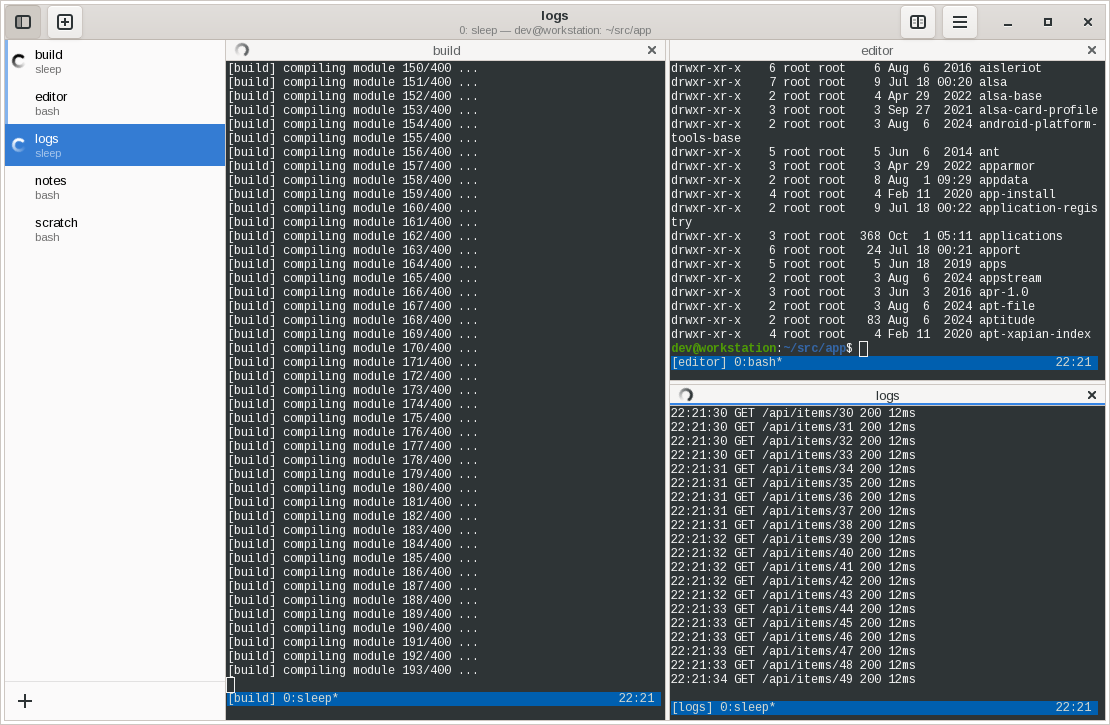
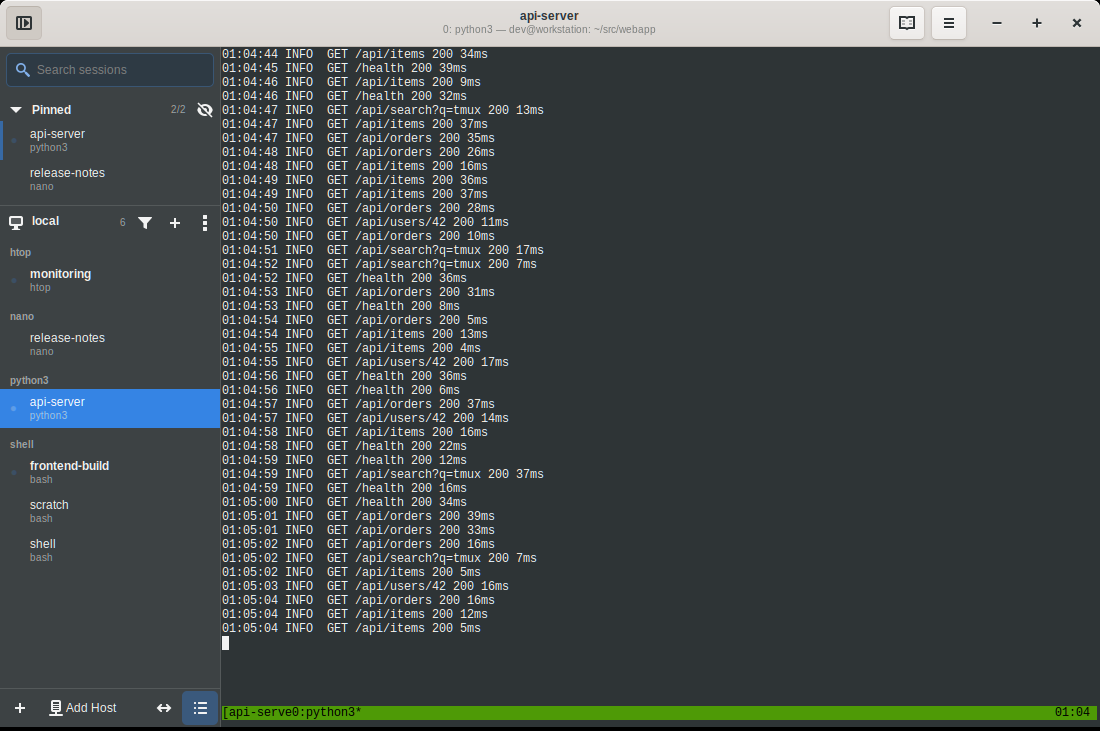
Build and publish packages for Ubuntu 24.04 and 26.04 and RHEL 8 and 10
The release workflow now also builds RPMs for RHEL 8 and 10 in Rocky
Linux 8 and AlmaLinux 10 containers on amd64 and arm64, uploads a
signed Ubuntu 26.04 source package to the PPA for Launchpad to build,
and publishes signed dnf repositories, with .repo files, beside the
APT repository on GitHub Pages. A composite action imports the signing
key and caches its passphrase in gpg-agent for gpg, rpmsign and
debsign. Integration CI builds the RPMs and builds the PPA package the
way Launchpad does.

Older GTK libraries are detected with pkg-config and selected in gotk3
with build tags (glib_2_56, gtk_3_22, pango_1_42, cairo_1_15 on RHEL
8). VTE before 0.54 leaves a new pty locked, so it's unlocked before
the client opens it.

The README has install instructions for each release, the Launchpad
setup, the license, and a screenshot of the app running on a GNOME
desktop.

Claude-Session: https://claude.ai/code/session_01W8pBYCqKCJ8aupw9tiXt1K

diff --git a/magefile.go b/magefile.go
@@ -1119,11 +1119,54 @@ func makeBuilder(cmd string, platform Platform) func() error {
 
 		fmt.Println("Building", platform.PlatformBin(cmd))
 		// GTK3 and VTE are linked with cgo, so the binary is dynamically linked.
+		args := []string{"build", "-ldflags", fmt.Sprintf("-s -w -buildid='' -X %s=%s", versionSymbol(), version),
+			"-trimpath", "-o", platform.PlatformBin(cmd)}
+		if tags := gotk3Tags(); len(tags) > 0 {
+			fmt.Println("Building for older GTK libraries with tags", strings.Join(tags, ","))
+			args = append(args, "-tags", strings.Join(tags, ","))
+		}
 		return sh.RunWith(map[string]string{"CGO_ENABLED": "1", "GOOS": platform.OS, "GOARCH": platform.Arch},
-			"go", "build", "-ldflags", fmt.Sprintf("-s -w -buildid='' -X %s=%s", versionSymbol(), version),
-			"-trimpath", "-o", platform.PlatformBin(cmd), cmdSrc)
+			"go", append(args, cmdSrc)...)
 	}
 	return f
+}
+
+// gotk3Tag returns gotk3's build tag for a library older than gotk3 builds for by default,
+// or "". gotk3 binds the newest functions unless told the library is older with tags such
+// as gtk_3_22; it has a tag for every minor version from lowest, in steps of step, up to
+// before newest.
+func gotk3Tag(module, prefix string, lowest, newest, step int) string {
+	out, err := exec.Command("pkg-config", "--modversion", module).Output()
+	if err != nil {
+		return ""
+	}
+	parts := strings.Split(strings.TrimSpace(string(out)), ".")
+	if len(parts) < 2 {
+		return ""
+	}
+	minor, err := strconv.Atoi(parts[1])
+	if err != nil || minor >= newest {
+		return ""
+	}
+	minor -= (minor - lowest) % step
+	return fmt.Sprintf("%s_%d", prefix, max(minor, lowest))
+}
+
+// gotk3Tags returns the gotk3 build tags matching the GTK libraries installed, such as
+// glib_2_56 and gtk_3_22 on RHEL 8. Up-to-date libraries need none.
+func gotk3Tags() []string {
+	tags := []string{}
+	for _, t := range []string{
+		gotk3Tag("glib-2.0", "glib_2", 40, 68, 2),
+		gotk3Tag("gtk+-3.0", "gtk_3", 6, 24, 2),
+		gotk3Tag("pango", "pango_1", 36, 44, 2),
+		gotk3Tag("cairo", "cairo_1", 9, 16, 1),
+	} {
+		if t != "" {
+			tags = append(tags, t)
+		}
+	}
+	return tags
 }
 
 func getCurrentPlatform() *Platform {

diff --git a/pkg/vte/vte.go b/pkg/vte/vte.go
@@ -81,6 +81,11 @@ func (t *Terminal) Start(cmd *exec.Cmd) (string, error) {
 	C.vte_terminal_set_pty(t.native(), pty)
 
 	masterFd := int(C.vte_pty_get_fd(pty))
+	// VTE before 0.54, as on RHEL 8, leaves the pty locked until its own child setup,
+	// which this doesn't use: unlock it, as unlockpt does.
+	if err := unix.IoctlSetPointerInt(masterFd, unix.TIOCSPTLCK, 0); err != nil {
+		return "", errors.Wrap(err, "unlocking the pty")
+	}
 	ptyNum, err := unix.IoctlGetUint32(masterFd, unix.TIOCGPTN)
 	if err != nil {
 		return "", errors.Wrap(err, "TIOCGPTN")

diff --git a/README.md b/README.md
@@ -1,6 +1,6 @@
 # tmux-tabbed-terminal
 
-![tmux-tabbed-terminal with three sessions side by side](docs/screenshot.png)
+![tmux-tabbed-terminal showing pinned sessions and sessions grouped by application](docs/screenshot.png)
 
 A terminal for people who live in tmux. It looks like GNOME Terminal, but instead of tabs
 it lists the tmux sessions running for you in a sidebar. Click a session to switch to it,
@@ -53,8 +53,22 @@ never kills a session.
 
 ## Install
 
-Packages for Ubuntu 24.04 (noble), amd64 and arm64, are published as an APT repository on
-GitHub Pages:
+Packages are built for Ubuntu 24.04 and 26.04 and for RHEL 8 and 10 (and rebuilds such as
+Rocky Linux and AlmaLinux), for amd64 and arm64. They're signed with the key
+`4EE9 6BF5 C3BE 937F DD2D  0109 47CC C9AA 4B3F D5DE`. Each
+[GitHub release](https://github.com/wrouesnel/tmux-tabbed-terminal/releases) also has them
+attached.
+
+### Ubuntu 26.04 (PPA)
+
+```sh
+sudo add-apt-repository ppa:wrouesnel/tmux-tabbed-terminal
+sudo apt install tmux-tabbed-terminal
+```
+
+### Ubuntu 24.04
+
+An APT repository on GitHub Pages:
 
 ```sh
 sudo install -d -m 0755 /etc/apt/keyrings
@@ -71,8 +85,17 @@ sudo apt update
 sudo apt install tmux-tabbed-terminal
 ```
 
-The `.deb` files are also attached to each
-[GitHub release](https://github.com/wrouesnel/tmux-tabbed-terminal/releases).
+### RHEL 8 and 10
+
+A dnf repository on GitHub Pages. Use `el8` or `el10` to match the release:
+
+```sh
+sudo curl -fsSLo /etc/yum.repos.d/tmux-tabbed-terminal.repo \
+    https://wrouesnel.github.io/tmux-tabbed-terminal/rpm/tmux-tabbed-terminal-el10.repo
+sudo dnf install tmux-tabbed-terminal
+```
+
+dnf asks to import the signing key the first time. RHEL 8's tmux is 2.7, which works.
 
 ## Usage
 
@@ -178,7 +201,8 @@ panes already attached to its sessions running.
 
 ## Building
 
-Building needs Go, the GTK3 and VTE development headers, and tmux for the tests. On Ubuntu:
+Building needs Go 1.26 or newer, the GTK3 and VTE development headers, and tmux for the
+tests. On Ubuntu:
 
 ```sh
 sudo apt install libgtk-3-dev libvte-2.91-dev tmux xvfb
@@ -191,24 +215,34 @@ go run mage.go binary
 | `go run mage.go binary` | Builds into `bin/` and symlinks the binary into the repository root. |
 | `go run mage.go test` | Runs the tests. The GUI test runs under `xvfb-run` and is skipped without it. |
 | `go run mage.go lint` / `style` | golangci-lint and formatting checks, as CI runs them. |
+| `go run mage.go rpm linux-amd64` | Builds `release/tmux-tabbed-terminal-<version>-1.<dist>.x86_64.rpm` on the RHEL release it's for, with `gtk3-devel`, `vte291-devel` and `rpm-build` installed. |
+| `go run mage.go debSource resolute` | Builds a source package for an Ubuntu suite, with the Go modules vendored, in `release/ppa/`; `DEB_SIGNING_KEY` signs it. |
 | `go run mage.go deb linux-amd64` | Builds `release/tmux-tabbed-terminal_<version>_amd64.deb`. Dependencies come from `dpkg-shlibdeps`, so build on the release you're packaging for. |
 | `go run mage.go aptRepo` | Builds an APT repository in `.apt-repo/` from the `.deb` files in `release/` and `$APT_POOL_DIR`, signed with the gpg key whose fingerprint is `$APT_SIGNING_KEY` (and passphrase `$APT_SIGNING_PASSPHRASE`, if it has one). |
+| `go run mage.go rpmRepo` | Adds dnf repositories for each RHEL release and architecture, and their `.repo` files, to `.apt-repo/rpm` from the `.rpm` files in `release/` and `$RPM_POOL_DIR`, signed with `$RPM_SIGNING_KEY`. Run it after `aptRepo`, which starts the site afresh. |
 
 The application uses cgo to link GTK3 and VTE, so each architecture is built on a machine
 of that architecture. Cross-compiling needs `CC` and `PKG_CONFIG_LIBDIR` set for the target.
 
-## Releases and the APT repository
+## Releases and package repositories
 
 Pushing a `v*` tag runs `.github/workflows/release.yml`. It does the following:
 
 1. Runs the integration checks.
-2. Builds the archive and `.deb` for amd64 on `ubuntu-24.04` and arm64 on
+2. Builds the archive and Ubuntu 24.04 `.deb` for amd64 on `ubuntu-24.04` and arm64 on
    `ubuntu-24.04-arm`.
-3. Attaches them to a GitHub release.
-4. Rebuilds the APT repository from the `.deb` files of every release and deploys it to
-   GitHub Pages. Pages holds no state of its own.
+3. Builds the RHEL 8 and 10 RPMs in Rocky Linux 8 and AlmaLinux 10 containers, on both
+   architectures, with `go run mage.go rpm`. Older GTK libraries, as on RHEL 8, are
+   detected with `pkg-config` and selected in gotk3 with build tags.
+4. Attaches them all to a GitHub release.
+5. Builds a signed source package for Ubuntu 26.04 with `go run mage.go debSource
+   resolute`, Go modules vendored in, and uploads it to the PPA, where Launchpad builds
+   it. Launchpad builds offline with Ubuntu's Go, which is why `go.mod` targets Go 1.26.0;
+   CI checks the package builds that way.
+6. Rebuilds the APT and dnf repositories from the packages of every release, signs them,
+   and deploys them to GitHub Pages. Pages holds no state of its own.
 
-The repository can be rebuilt without a release by running the workflow manually.
+The repositories can be rebuilt without a release by running the workflow manually.
 
 One-time setup:
 
@@ -221,13 +255,14 @@ One-time setup:
       gpg-passphrase tmux-tabbed-terminal-packages
   secret-tool lookup gpg-passphrase tmux-tabbed-terminal-packages |
       gpg --batch --pinentry-mode loopback --passphrase-fd 0 \
-          --quick-gen-key "tmux-tabbed-terminal packages <wrouesnel@wrouesnel.com>" ed25519 sign 5y
+          --quick-gen-key "tmux-tabbed-terminal packages <wrouesnel@wrouesnel.com>" rsa4096 sign 5y
   FPR=$(gpg --with-colons --list-keys "tmux-tabbed-terminal packages" | awk -F: '/^fpr/ { print $10; exit }')
   ```
 
   Your keyring holds the key from then on; scripts and configuration refer to it by
-  fingerprint. Users trust its public part through the repository's `key.gpg`, so
-  replacing it breaks their `apt update`.
+  fingerprint. It's RSA, as RHEL 8's rpm can't check EdDSA signatures. Users trust its
+  public part through the repositories' `key.gpg` and `key.asc`, so replacing it breaks
+  their `apt update` and `dnf`.
 * Give the release workflow the key. This is the one step where the private key leaves
   your keyring, so it's one you run deliberately: the workflow signs each release's
   repository metadata on GitHub's runners, which can't reach your keyring. GitHub keeps
@@ -239,6 +274,24 @@ One-time setup:
       gh secret set PACKAGE_SIGNING_KEY_PASSPHRASE
   gh variable set PACKAGE_SIGNING_KEY_FINGERPRINT --body "$FPR"
   ```
+* For the PPA, on Launchpad: create the PPA `tmux-tabbed-terminal`
+  (https://launchpad.net/~wrouesnel/+activate-ppa), and register the signing key with the
+  account (https://launchpad.net/~wrouesnel/+editpgpkeys) after publishing its public
+  part, which Launchpad fetches from the Ubuntu keyserver:
+
+  ```sh
+  gpg --keyserver keyserver.ubuntu.com --send-keys "$FPR"
+  ```
+
+  Launchpad emails a message encrypted to the key; decrypting it confirms it. The
+  workflow uploads to `ppa:wrouesnel/tmux-tabbed-terminal`, or to the PPA named by the
+  `PPA` repository variable.
+
+## License
+
+MIT: see [LICENSE](LICENSE). The binary links
+[github.com/yuseferi/zax](https://github.com/yuseferi/zax), which is GPL-3.0, through
+`go.logutil`, so binary packages are distributed under the GPL-3.0 as well.
 
 ## Implementation
 
